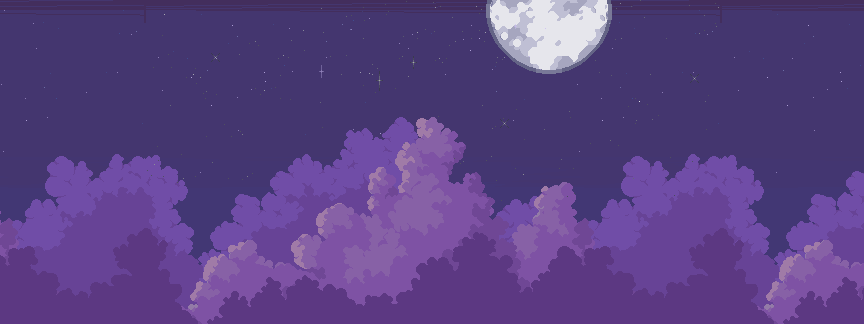
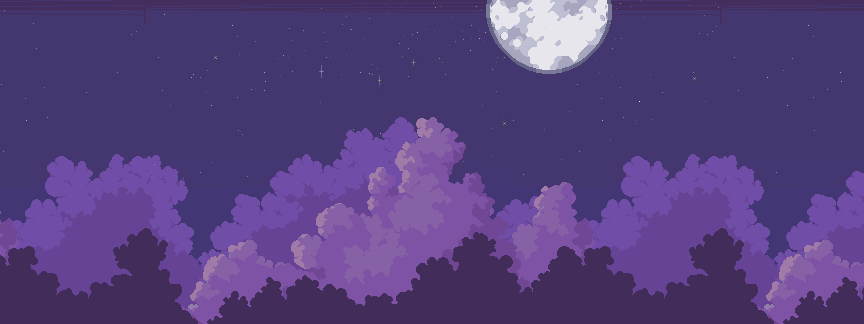
map and colors

Changed region(s): [[0.0, 0.7099, 1.0, 1.0]]

diff --git a/Website/style.css b/Website/style.css
@@ -19,8 +19,8 @@
     --grey_light: #8f8295;
     --grey_dark: #35233e;
     /*cloud colors*/
-    --c_dark1: #5c3882;
-    --c_light1: #763cb5;
+    --c_dark1: #422c5a;
+    --c_light1: #9D77B0;
     --c_dark2: #432e5d;
     --c_light2: #805ca2;
     --c_light2_shadow:#624580;
